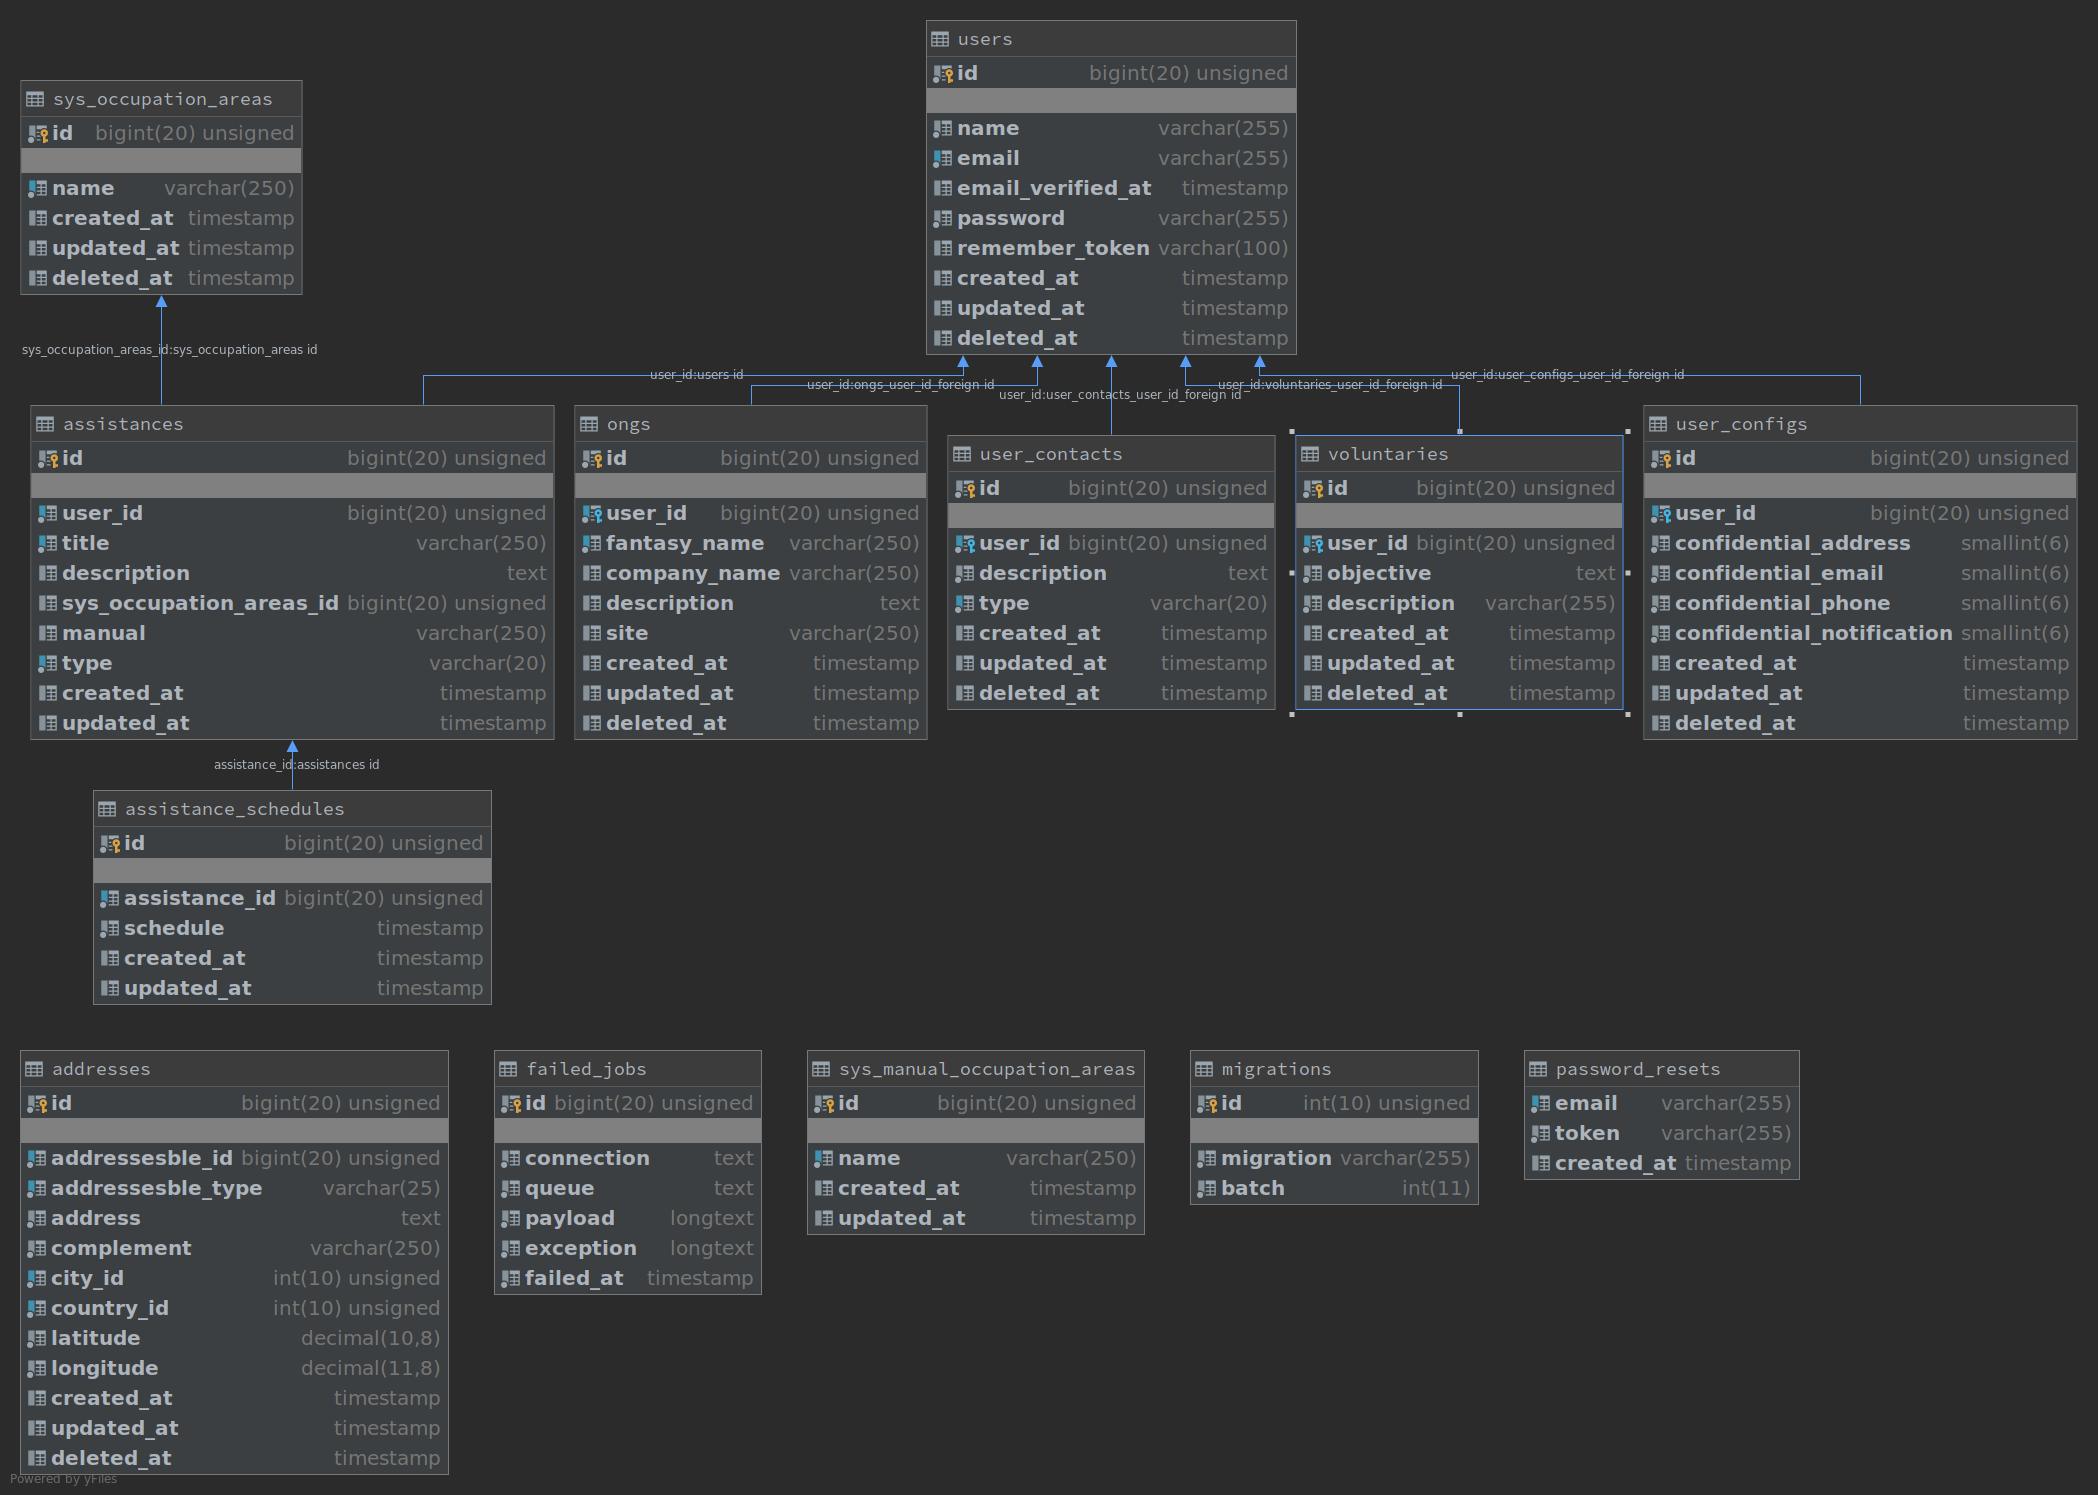
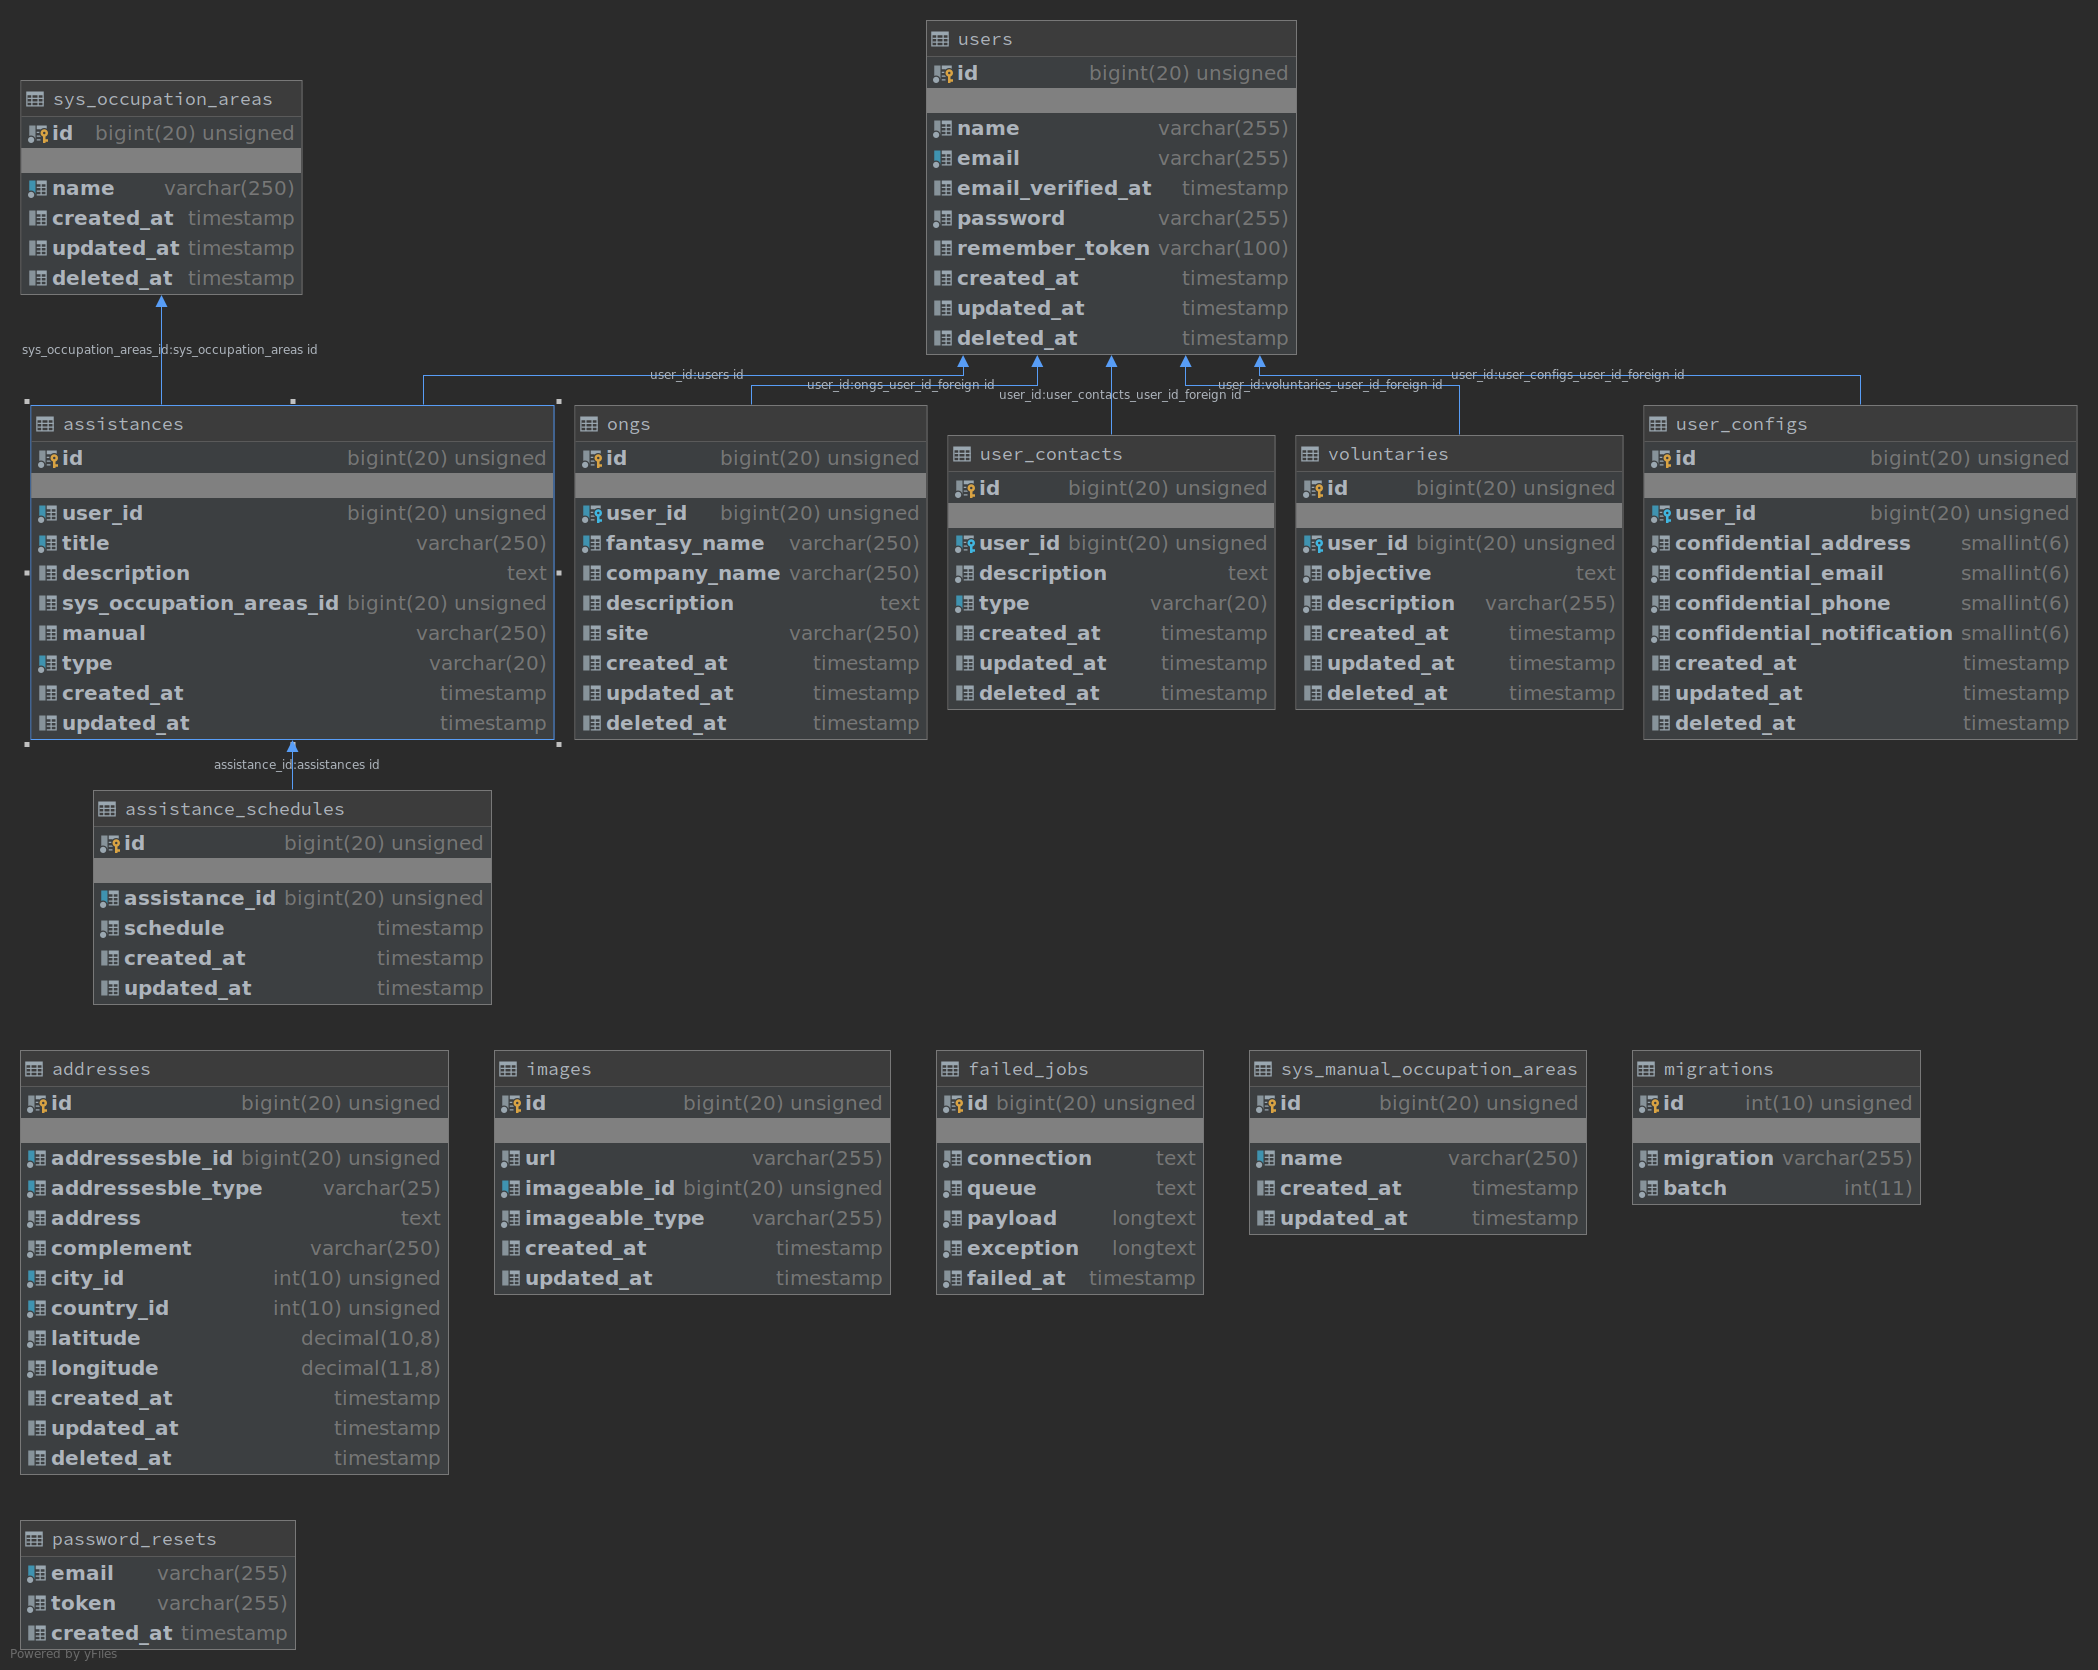
image model

Changed region(s): [[0.0, 0.0, 0.9914, 1.0]]

diff --git a/database/migrations/2020_02_09_145539_create_images_table.php b/database/migrations/2020_02_09_145539_create_images_table.php
@@ -1,0 +1,34 @@
+<?php
+
+use Illuminate\Database\Migrations\Migration;
+use Illuminate\Database\Schema\Blueprint;
+use Illuminate\Support\Facades\Schema;
+
+class CreateImagesTable extends Migration
+{
+    /**
+     * Run the migrations.
+     *
+     * @return void
+     */
+    public function up()
+    {
+        Schema::create('images', function (Blueprint $table) {
+            $table->bigIncrements('id');
+            $table->string('url');
+            $table->bigInteger('imageable_id')->unsigned()->index();
+            $table->string('imageable_type'); //todo enum  voluntary - ong - assistance  - gallry
+            $table->timestamps();
+        });
+    }
+
+    /**
+     * Reverse the migrations.
+     *
+     * @return void
+     */
+    public function down()
+    {
+        Schema::dropIfExists('images');
+    }
+}

diff --git a/database/factories/ImagesFactory.php b/database/factories/ImagesFactory.php
@@ -1,0 +1,25 @@
+<?php
+
+/** @var \Illuminate\Database\Eloquent\Factory $factory */
+
+use App\Images;
+use Faker\Generator as Faker;
+
+$factory->define(Images::class, function (Faker $faker) {
+    return [
+        'imageable_id' => function () {
+            $generatedUser =  rand(1,3);
+            switch ($generatedUser) {
+                case 1:
+                    return factory(App\Voluntary::class)->create()->id;
+                case 2:
+                    return factory(App\Ong::class)->create()->id;
+                case 3:
+                    return factory(App\Assistance::class)->create()->id;
+                default:
+                    return factory(App\User::class)->create()->id;
+            }
+        },
+        'imageable_type' => $faker->colorName //todo enum
+    ];
+});

diff --git a/app/Images.php b/app/Images.php
@@ -1,0 +1,10 @@
+<?php
+
+namespace App;
+
+use Illuminate\Database\Eloquent\Model;
+
+class Images extends Model
+{
+    protected $fillable = ['imageable_id','imageable_type'];
+}
